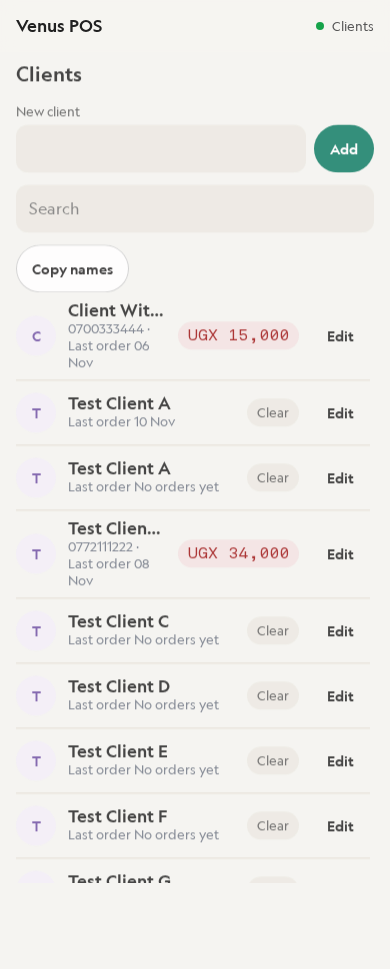
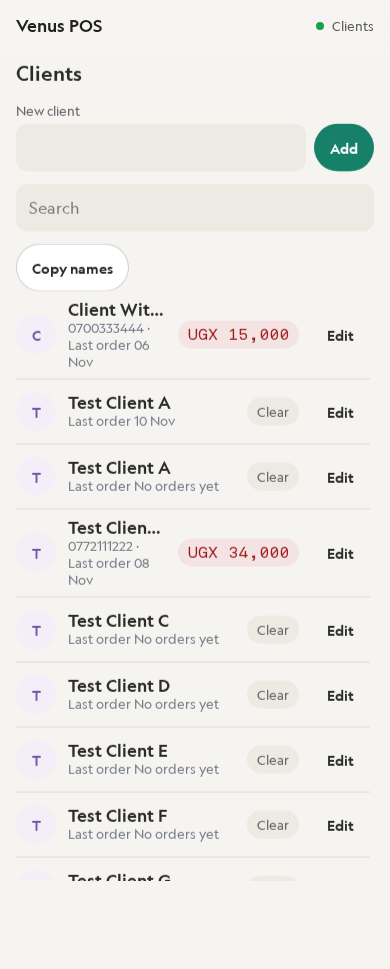
wip: owner-decision shots, copy buttons ring so they read on tinted panels

diff --git a/tests/e2e/design-shots.spec.ts b/tests/e2e/design-shots.spec.ts
@@ -37,7 +37,12 @@ test('capture 390px screens', async ({ page, browser, baseURL }) => {
   await page.getByRole('dialog', { name: 'Review sale' }).getByRole('tab', { name: 'Delivery' }).click();
   await page.getByRole('dialog', { name: 'Review sale' }).getByTestId('delivery-phone').fill('+256700111222');
   await frame();
-  await page.screenshot({ path: `${dir}/review-sheet.png`, fullPage: true });
+  // The sheet is fixed to the screen, so shoot the viewport with the copy buttons scrolled into it.
+  await page
+    .getByRole('dialog', { name: 'Review sale' })
+    .getByTestId('copy-phone')
+    .evaluate((el) => el.scrollIntoView({ block: 'center' }));
+  await page.screenshot({ path: `${dir}/review-sheet.png` });
   await page.keyboard.press('Escape');
 
   await shot('orders', '/next/orders', 'h1');

diff --git a/src/ui/ui.css b/src/ui/ui.css
@@ -253,13 +253,15 @@
 }
 
 .v-copy-btn--phone {
-  background: var(--mint-tint);
+  background: color-mix(in srgb, var(--accent) 16%, var(--surface));
   color: var(--accent-ink);
+  box-shadow: inset 0 0 0 1.5px color-mix(in srgb, var(--accent) 55%, transparent);
 }
 
 .v-copy-btn--place {
   background: var(--melon-tint);
   color: var(--amber-800);
+  box-shadow: inset 0 0 0 1.5px color-mix(in srgb, var(--melon) 45%, transparent);
 }
 
 .v-copy-btn--pill {
@@ -274,6 +276,7 @@
 .v-copy-btn.is-done {
   background: var(--accent);
   color: var(--on-action);
+  box-shadow: none;
 }
 
 .v-copy-btn__icon {
